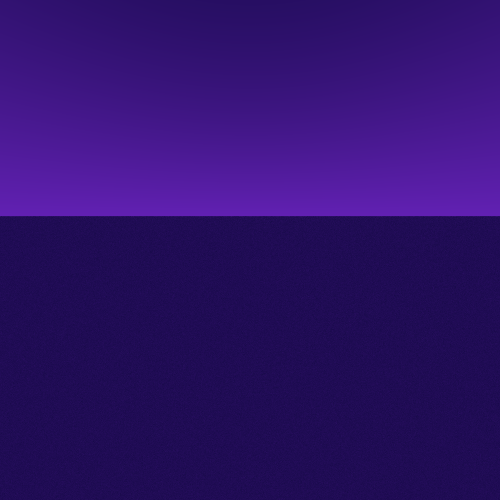
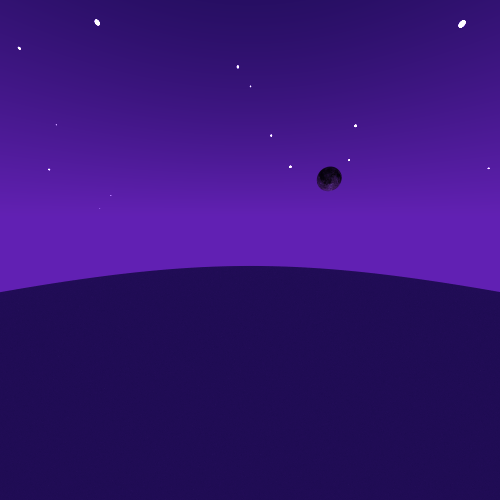
lalaland scene

diff --git a/src/main.rs b/src/main.rs
@@ -1,9 +1,10 @@
+#![allow(unused_imports)]
+
 mod geometry;
 mod render;
 mod vec3;
 mod textures;
 use image::RgbImage;
-#[allow(unused_imports)]
 use image::{ImageBuffer, ImageReader};
 use geometry::{Camera, Material, Object, QuadType, Reflection};
 use rand::Rng;
@@ -59,11 +60,20 @@ fn frag(x: usize, y: usize, input: &Uniforms) -> Pixel {
 
 fn main() {
     env::set_var("RUST_BACKTRACE", "1");
-    let image: RgbImage = ImageReader::open("earthmap.jpg").unwrap().decode().unwrap().into_rgb8();
-    let _img = Picture::new(image);
-    let mat = Material::new(Reflection::Diffuse(), Texture::Solid { color: Vec3::new1(1.) }, Vec3::new1(4.));
-    let input = Uniforms {
-        sample_count: 100, 
+    let image: RgbImage = ImageReader::open("moon3.jpg").unwrap().decode().unwrap().into_rgb8();
+    let img = Picture::new(image);
+    let mat = Material::new(Reflection::Diffuse(), Texture::Img { img }, Vec3::default());
+    let star_mat = Material{refl: Reflection::Diffuse(), tex: Texture::Solid { color: Vec3::new1(1.) }, emmision: Vec3::new1(2.)};
+    let mut stars: Vec<Object> = vec![];
+    for n in -20..20{
+        let i = n as f32*0.25;
+        let rand = Vec3::random();
+        let pos = Vec3::new(rand.x*i*200., rand.y*i*100_f32.abs()+100., rand.z.abs()*80.);
+        let star = Object::Sphere { pos, rad: Vec3::random().x.abs(), mat: star_mat.clone() };
+        stars.push(star);
+    }
+    let mut input = Uniforms {
+        sample_count: 1000, 
         bounce_count: 5,
         offset: WIDTH as f32/1000.,
         cam: Camera::new(
@@ -74,17 +84,9 @@ fn main() {
             0.
         ),
         objects: vec![
-            Object::Plane { pos: Vec3::default(), normal: Vec3::up(), mat: Material::default() }
-            //Object::Sphere { pos: Vec3::new(0., 4.5, 1.5), rad: 1.5, mat: Material{refl: Reflection::Metal { roughness: 0. }, tex: Texture::Solid { color: Vec3::new1(1.) }, emmision: Vec3::default()} },
-            // Object::new_quad(Vec3::new(-3., 0., 0.), Vec3::new(6., 0., 0.), Vec3::new(0., 6., 0.), QuadType::Rect(), Material::default()),
-            // Object::new_quad(Vec3::new(-3., 0., 6.), Vec3::new(6., 0., 0.), Vec3::new(0., 6., 0.), QuadType::Rect(), Material::default()),
-
-            // Object::new_quad(Vec3::new(-3., 0., 0.), Vec3::new(0., 6., 0.), Vec3::new(0., 0., 6.), QuadType::Rect(), Material{refl: Reflection::Diffuse(), tex: Texture::Solid { color: Vec3::new(1., 0.1, 0.1) }, emmision: Vec3::default()}),
-            // Object::new_quad(Vec3::new(3., 0., 0.), Vec3::new(0., 6., 0.), Vec3::new(0., 0., 6.), QuadType::Rect(), Material{refl: Reflection::Diffuse(), tex: Texture::Solid { color: Vec3::new(0.1, 1.0, 0.1) }, emmision: Vec3::default()}),
-
-            // Object::new_quad(Vec3::new(-3., 6., 0.), Vec3::new(6., 0., 0.), Vec3::new(0., 0., 6.), QuadType::Rect(), Material::default()),
-            // Object::new_quad(Vec3::new(-1.5, 1.5, 5.98), Vec3::new(3., 0., 0.), Vec3::new(0., 3., 0.), QuadType::Rect(), mat),
-
+            Object::Sphere { pos: Vec3::new(0., 0., -120.), rad: 120., mat: Material::default() },
+            Object::Sphere { pos: Vec3::new(100., 300., 50.), rad: 15., mat },
+            Object::Sphere {pos: Vec3::new(70., 110., -60.), rad: 20., mat: Material {refl: Reflection::Diffuse(), tex:Texture::Solid { color: Vec3::new1(1.) }, emmision: Vec3::new1(10.)}}
             ],
         env_shader: Box::new(|v|{
             let col1 = Vec3::new(0.3843, 0.1294, 0.702);
@@ -93,6 +95,6 @@ fn main() {
             col1.lerp(&col2, value)
         } )
     };
-
+    input.objects.append(&mut stars);
     display(frag, input, "sample");
 }
